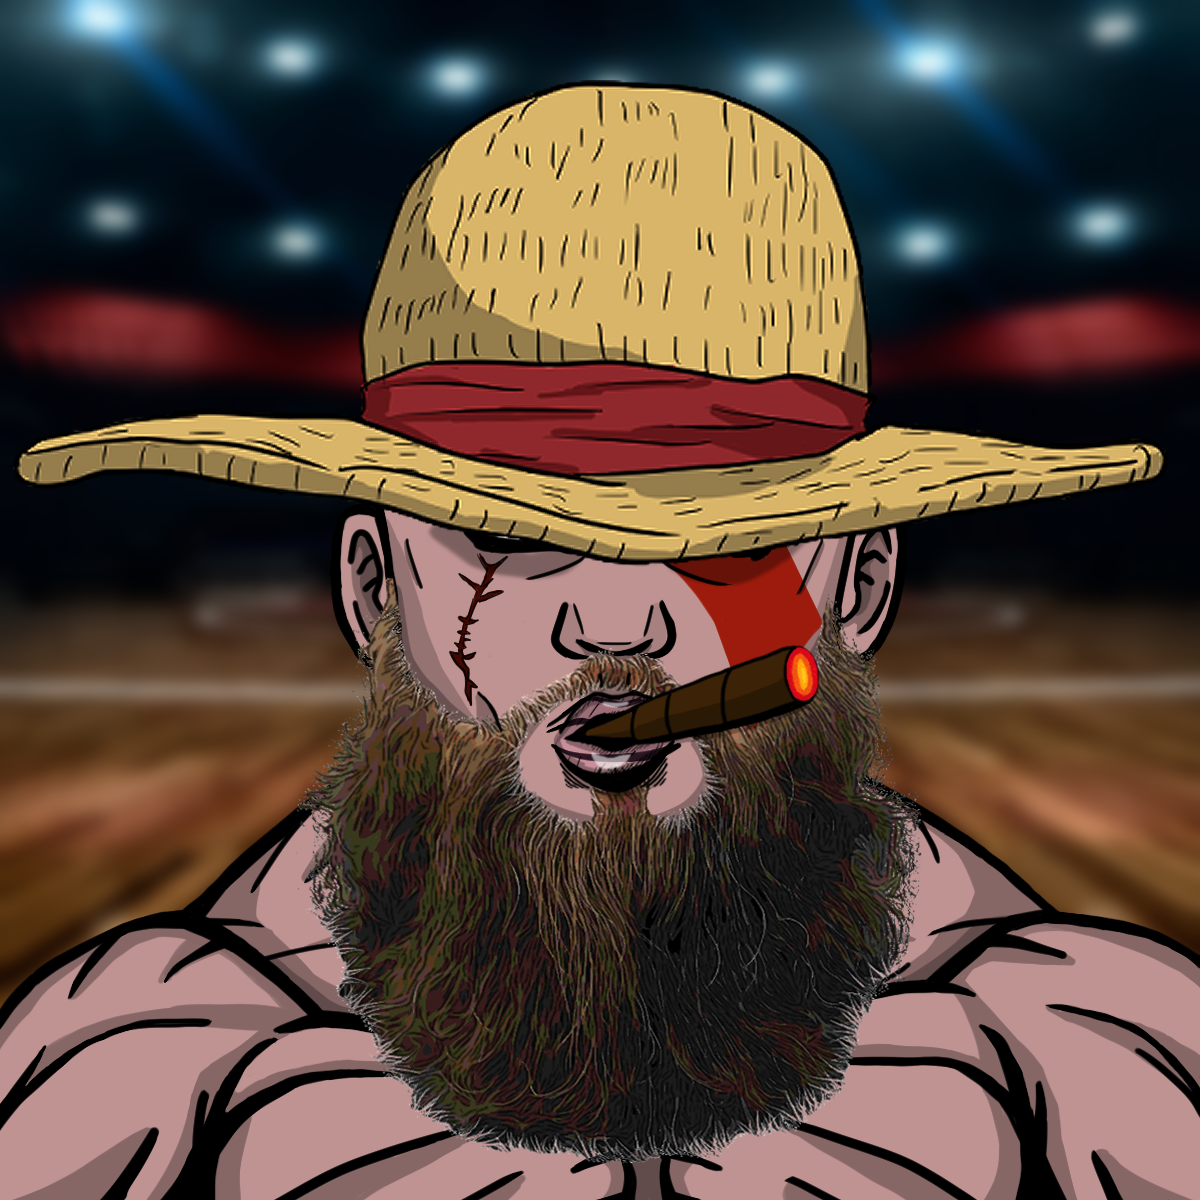
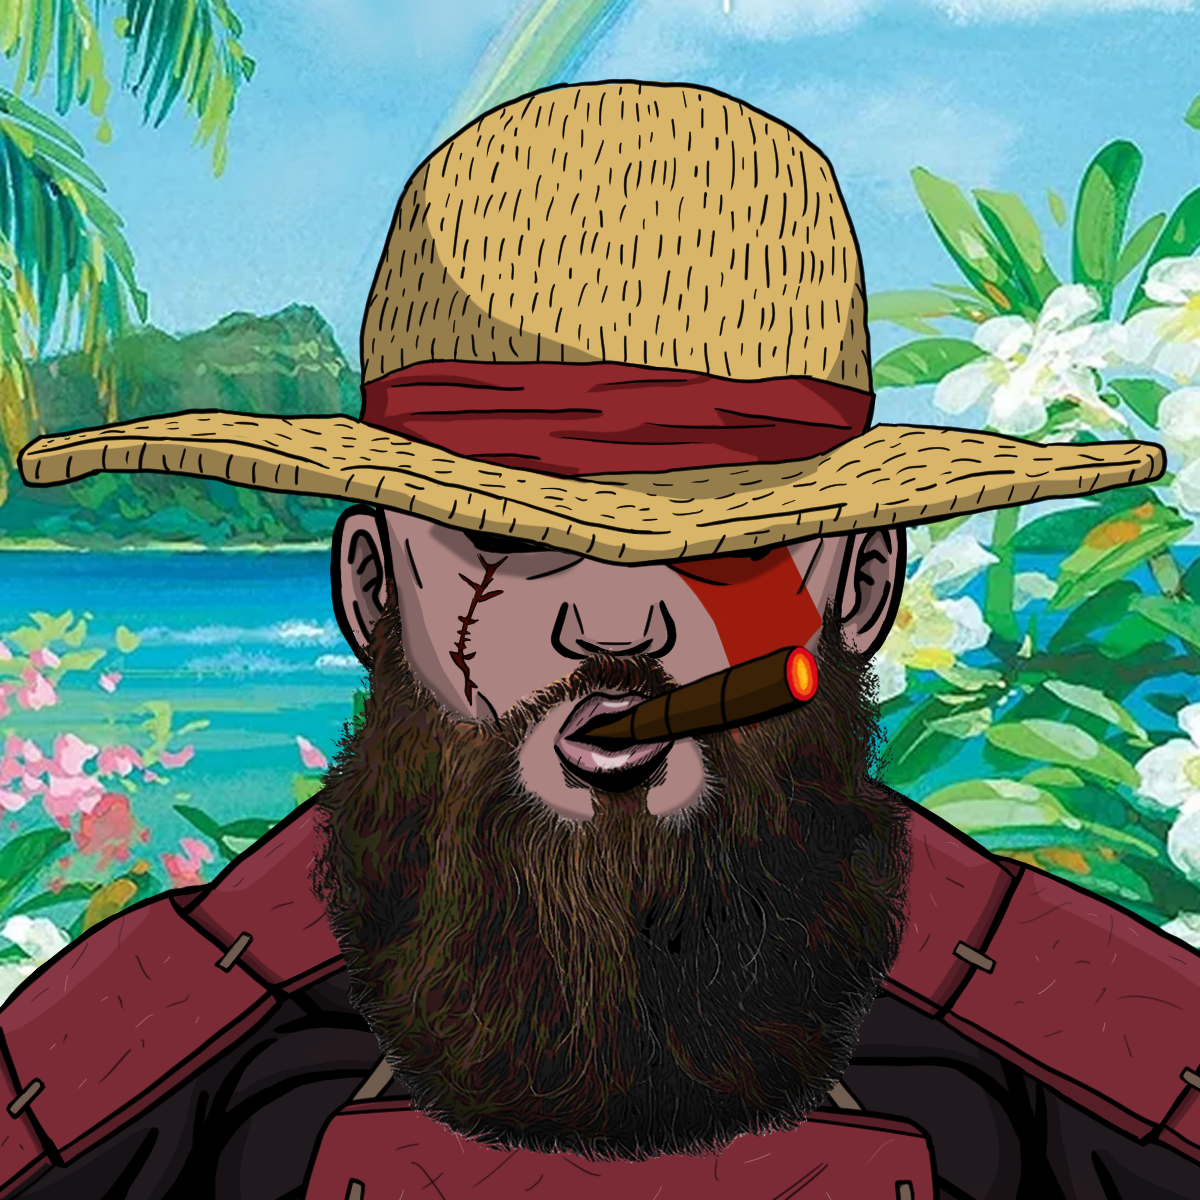
feat: update millynish Team section

diff --git a/components/Team.tsx b/components/Team.tsx
@@ -58,7 +58,7 @@ const people: Person[] = [
     name: "Millynish",
     role: "Discord Expert",
     imageUrl: millynish,
-    bio: `Ultimate gym-bro, to get you gains one muscle at a time - neck, back, bi's, lats`,
+    bio: `Chillin like a villain on the Opti Island makin a killin`,
     twitterUrl: "https://twitter.com/anish_katwal",
   },
 ];
